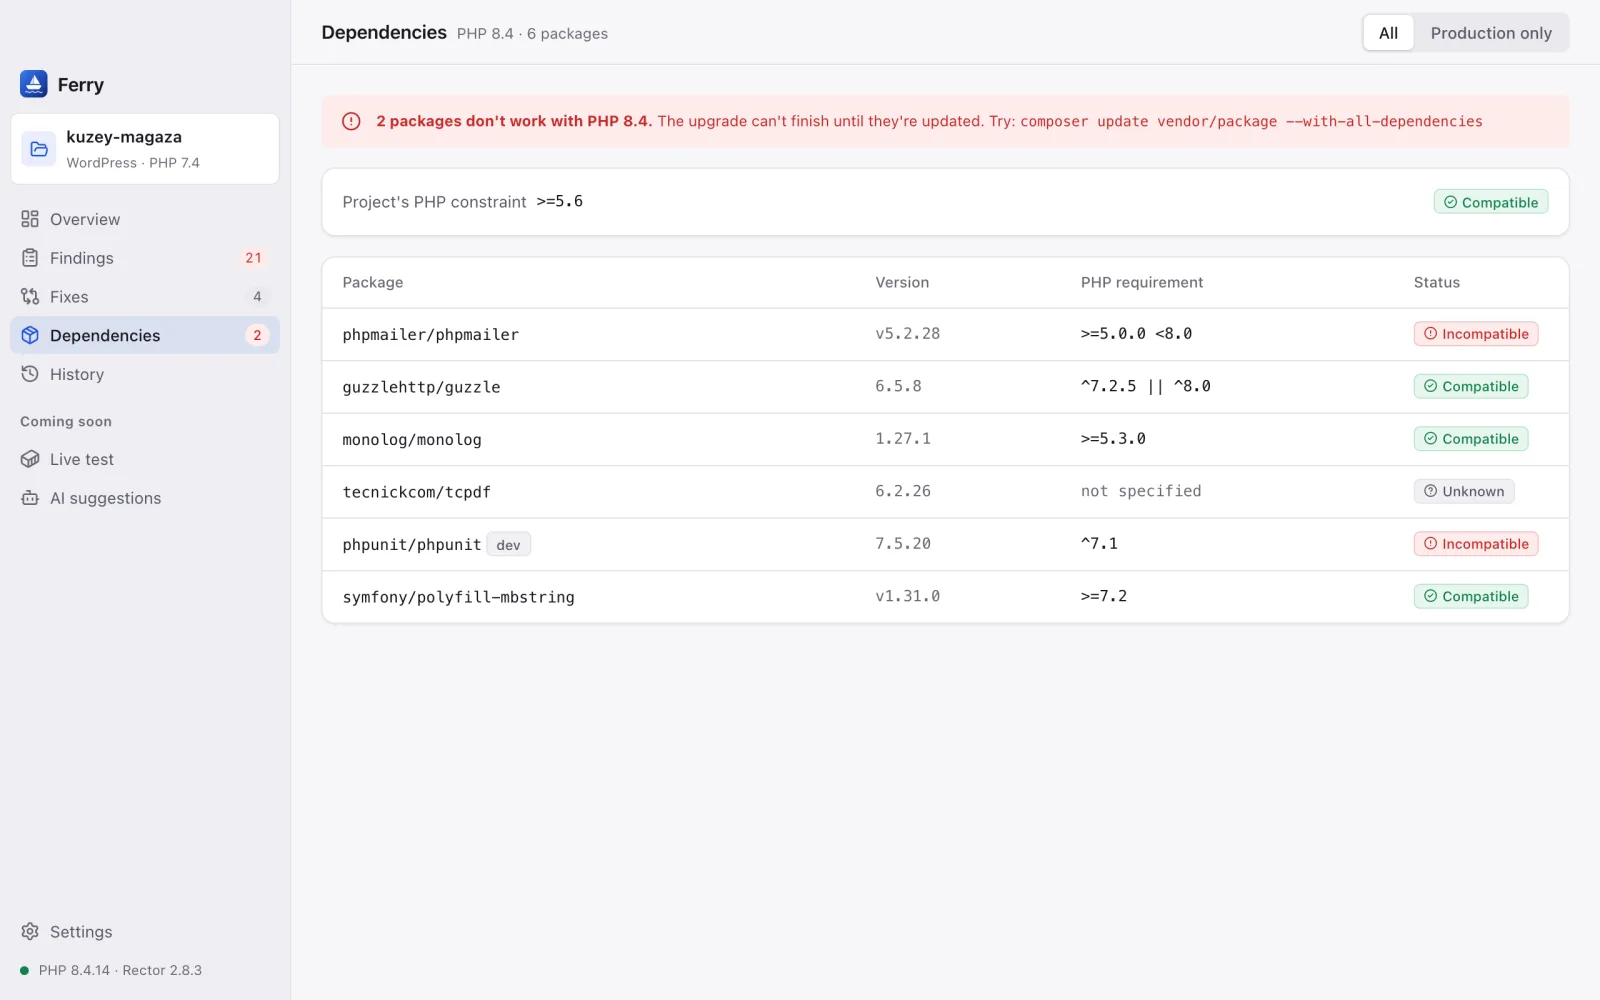
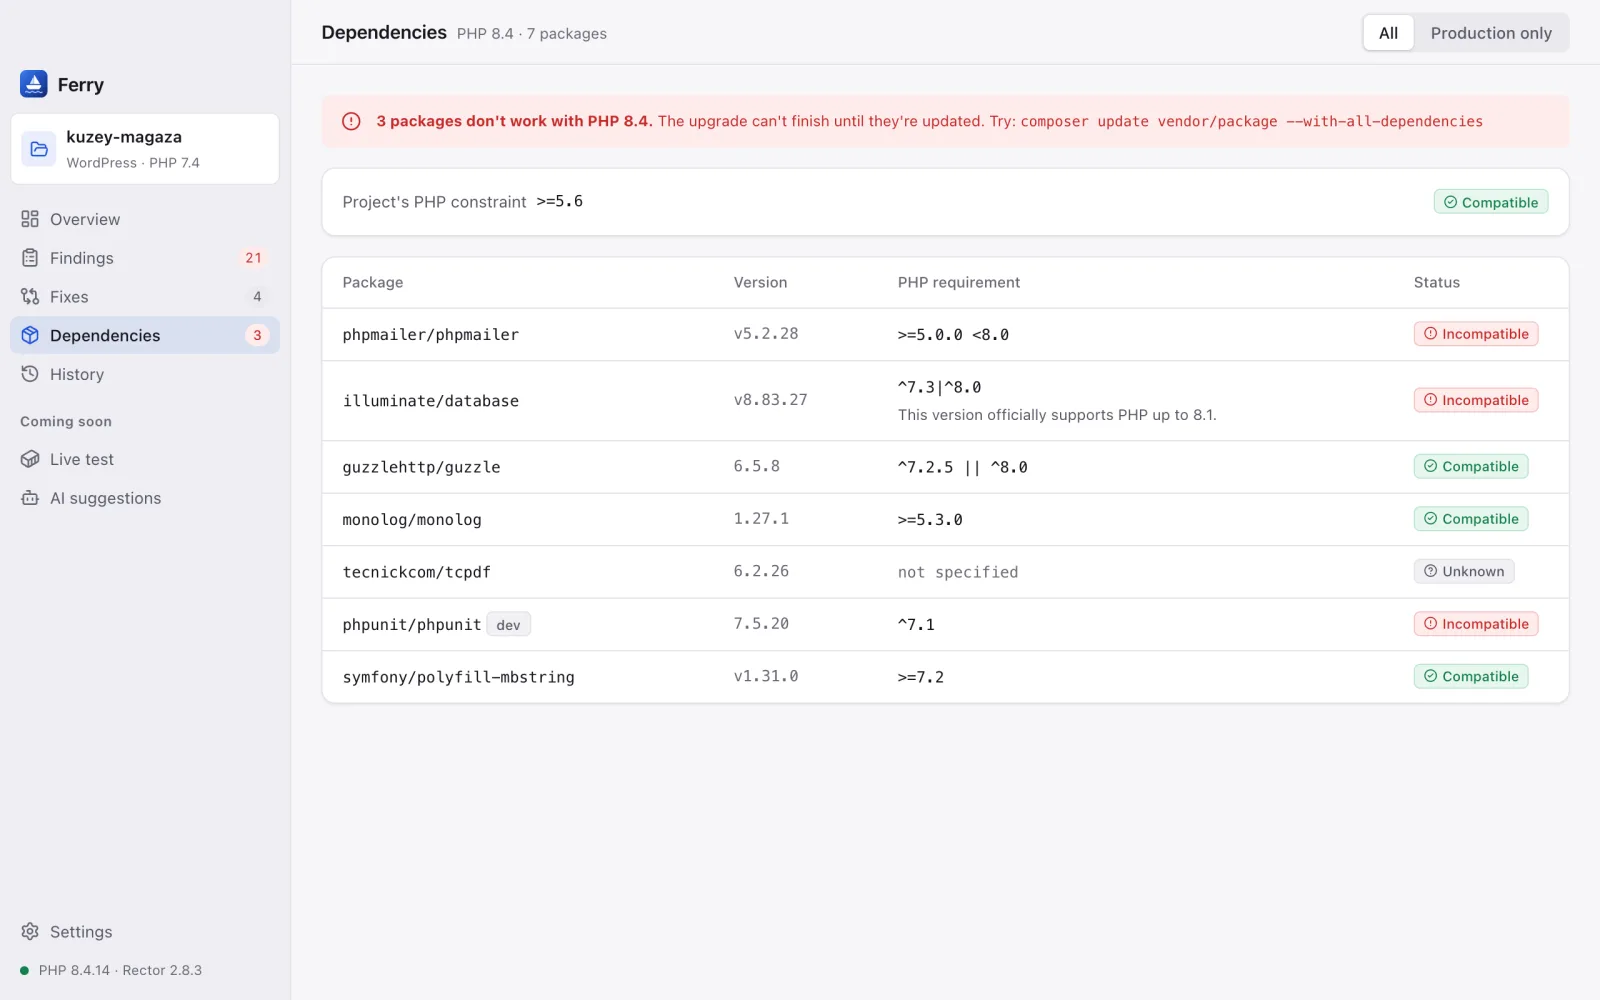
Use published framework support ranges for dependencies
laravel/framework, laravel/lumen-framework and illuminate/* are checked
against Laravel's supported PHP range, drupal/core against Drupal's, and
Symfony's core packages against when their maintenance ended, so a
loose constraint such as ^8.0.2 no longer reads as compatible with PHP
8.5. The Dependencies page explains the difference under the
requirement. The native e2e script now finds the snapshot delete button
directly and logs a heartbeat through the dev console.

diff --git a/e2e/native-full.js b/e2e/native-full.js
@@ -1,6 +1,12 @@
 (async () => {
   const invoke = window.__TAURI_INTERNALS__.invoke;
-  const emit = (m) => invoke("plugin:event|emit", { event: "e2e://log", payload: String(m) });
+  let lastLabel = "start";
+  const emit = (m) => {
+    lastLabel = String(m).slice(0, 80);
+    console.warn("E2E " + lastLabel);
+    return invoke("plugin:event|emit", { event: "e2e://log", payload: String(m) });
+  };
+  setInterval(() => console.warn("E2E alive after: " + lastLabel), 10000);
   const sleep = (ms) => new Promise((r) => setTimeout(r, ms));
   const until = async (fn, what, ms = 30000) => {
     const start = Date.now();
@@ -182,12 +188,11 @@
       await click("Geri yükle", confirm);
       await until(() => seen.slice(before).includes("Geri yüklendi"), "restored toast", 30000);
 
-      await click("Yedeği sil", $$("tbody tr")[0]).catch(async () => {
-        const del = $$("tbody tr")[0].querySelector('button[aria-label="Yedeği sil"]');
-        check(del, "delete button");
-        del.click();
-      });
+      emit("  deleting snapshot");
+      (await until(() => $('tbody tr button[aria-label="Yedeği sil"]'), "delete button")).click();
+      emit("  confirming delete");
       await click("Sil", await dialog());
+      emit("  waiting for empty history");
       await until(() => text().includes("Henüz bir değişiklik uygulanmadı"), "history empty after delete");
     },
 

diff --git a/src/screens/Other.tsx b/src/screens/Other.tsx
@@ -53,7 +53,7 @@ function DepBadge({ status }: { status: DependencyStatus }) {
 }
 
 export function Dependencies() {
-  const { t } = useI18n();
+  const { t, loc } = useI18n();
   const { deps, scan, runScan, scanning, target } = useStore();
   const [showDev, setShowDev] = useState(true);
 
@@ -148,7 +148,10 @@ export function Dependencies() {
                         <span className="mono selectable">{p.name}</span> {p.dev && <Badge>dev</Badge>}
                       </td>
                       <td className="mono subtle">{p.version}</td>
-                      <td className="mono">{p.phpConstraint ?? <span className="subtle">{t.deps.unspecified}</span>}</td>
+                      <td>
+                        <span className="mono">{p.phpConstraint ?? <span className="subtle">{t.deps.unspecified}</span>}</span>
+                        {p.note && <div className="dep-note">{loc(p.note)}</div>}
+                      </td>
                       <td>
                         <DepBadge status={p.status} />
                       </td>

diff --git a/src/lib/mock.ts b/src/lib/mock.ts
@@ -139,6 +139,7 @@ const DEPS: Omit<DependencyReport, "target" | "rootStatus"> = {
   hasLockFile: true,
   packages: [
     { name: "phpmailer/phpmailer", version: "v5.2.28", phpConstraint: ">=5.0.0 <8.0", status: "incompatible", dev: false },
+    { name: "illuminate/database", version: "v8.83.27", phpConstraint: "^7.3|^8.0", status: "incompatible", dev: false, note: L("Bu sürüm resmi olarak en fazla PHP 8.1'i destekliyor.", "This version officially supports PHP up to 8.1.") },
     { name: "guzzlehttp/guzzle", version: "6.5.8", phpConstraint: "^7.2.5 || ^8.0", status: "compatible", dev: false },
     { name: "monolog/monolog", version: "1.27.1", phpConstraint: ">=5.3.0", status: "compatible", dev: false },
     { name: "tecnickcom/tcpdf", version: "6.2.26", phpConstraint: null, status: "unknown", dev: false },

diff --git a/src/test/app.test.tsx b/src/test/app.test.tsx
@@ -245,6 +245,15 @@ describe("Ferry app", () => {
     expect(within(dialog).getByRole("button", { name: "Vazgeç" })).toHaveFocus();
   });
 
+  it("explains packages whose real PHP limit is lower than their constraint", async () => {
+    const user = setup();
+    await openAndScan(user);
+    await user.click(nav(/Bağımlılıklar/));
+    const row = (await screen.findByText("illuminate/database")).closest("tr")!;
+    expect(within(row).getByText("Bu sürüm resmi olarak en fazla PHP 8.1'i destekliyor.")).toBeInTheDocument();
+    expect(within(row).getByText("Uyumsuz")).toBeInTheDocument();
+  });
+
   it("supports keyboard selection in the version picker", async () => {
     const user = setup();
     await user.click(await screen.findByRole("button", { name: "Proje klasörü seçin" }));

diff --git a/src/styles/app.css b/src/styles/app.css
@@ -2303,3 +2303,9 @@ html[data-platform="macos"] .sidebar {
   font-family: var(--font-mono);
   font-size: var(--text-xs);
 }
+
+.dep-note {
+  margin-top: 2px;
+  font-size: var(--text-sm);
+  color: var(--text-2);
+}

diff --git a/src/lib/types.ts b/src/lib/types.ts
@@ -72,6 +72,7 @@ export interface Dependency {
   phpConstraint: string | null;
   status: DependencyStatus;
   dev: boolean;
+  note?: Localized | null;
 }
 
 export interface DependencyReport {

diff --git a/crates/ferry-core/src/deps.rs b/crates/ferry-core/src/deps.rs
@@ -1,3 +1,4 @@
+use crate::i18n::Localized;
 use crate::version::{constraint_allows, PhpVersion};
 use serde::Serialize;
 use std::path::Path;
@@ -18,6 +19,7 @@ pub struct Dependency {
     pub php_constraint: Option<String>,
     pub status: DependencyStatus,
     pub dev: bool,
+    pub note: Option<Localized>,
 }
 
 #[derive(Debug, Clone, Serialize)]
@@ -67,13 +69,33 @@ pub fn check(root: &Path, target: PhpVersion) -> DependencyReport {
                     .pointer("/require/php")
                     .and_then(|v| v.as_str())
                     .map(str::to_string);
-                let status = status_for(php_constraint.as_deref(), target);
+                let mut status = status_for(php_constraint.as_deref(), target);
+                let mut note = None;
+                if let Some(limit) = crate::framework::package_limit(&name, &version).filter(|l| target > l.max) {
+                    let (max, t) = (limit.max.to_string(), target.to_string());
+                    if limit.official {
+                        status = DependencyStatus::Incompatible;
+                        note = Some(Localized {
+                            tr: format!("Bu sürüm resmi olarak en fazla PHP {max}'i destekliyor."),
+                            en: format!("This version officially supports PHP up to {max}."),
+                        });
+                    } else {
+                        if status == DependencyStatus::Compatible {
+                            status = DependencyStatus::Unknown;
+                        }
+                        note = Some(Localized {
+                            tr: format!("Bu sürümün bakımı PHP {t} çıkmadan bitti; bu sürümle hiç test edilmedi."),
+                            en: format!("This version stopped receiving fixes before PHP {t} came out and was never tested on it."),
+                        });
+                    }
+                }
                 packages.push(Dependency {
                     name,
                     version,
                     php_constraint,
                     status,
                     dev,
+                    note,
                 });
             }
         }
@@ -131,6 +153,32 @@ mod tests {
                 ("good/lib", DependencyStatus::Compatible, false),
             ]
         );
+    }
+
+    #[test]
+    fn known_framework_limits_beat_loose_constraints() {
+        let dir = tempfile::tempdir().unwrap();
+        fs::write(
+            dir.path().join("composer.lock"),
+            r#"{
+              "packages": [
+                {"name": "laravel/framework", "version": "v9.52.16", "require": {"php": "^8.0.2"}},
+                {"name": "illuminate/support", "version": "v11.30.0", "require": {"php": "^8.2"}},
+                {"name": "symfony/http-kernel", "version": "v5.4.40", "require": {"php": ">=7.2.5"}},
+                {"name": "symfony/console", "version": "v5.4.40", "require": {"php": ">=7.2.5"}}
+              ]
+            }"#,
+        )
+        .unwrap();
+        let r = check(dir.path(), "8.5".parse().unwrap());
+        let row = |n: &str| r.packages.iter().find(|p| p.name == n).unwrap();
+        assert_eq!(row("laravel/framework").status, DependencyStatus::Incompatible);
+        assert!(row("laravel/framework").note.as_ref().unwrap().en.contains("up to 8.2"));
+        assert_eq!(row("illuminate/support").status, DependencyStatus::Incompatible);
+        assert_eq!(row("symfony/http-kernel").status, DependencyStatus::Unknown);
+        assert!(row("symfony/console").note.is_none(), "only core packages carry the Symfony limit");
+        let ok = check(dir.path(), "8.2".parse().unwrap());
+        assert!(ok.packages.iter().find(|p| p.name == "laravel/framework").unwrap().note.is_none());
     }
 
     #[test]

diff --git a/crates/ferry-core/src/framework.rs b/crates/ferry-core/src/framework.rs
@@ -62,6 +62,29 @@ const SYMFONY_MAINTAINED_UNTIL: [(Version, Option<Version>); 18] = [
     ((9, 0), None),
 ];
 
+pub(crate) struct PackageLimit {
+    pub max: PhpVersion,
+    pub official: bool,
+}
+
+pub(crate) fn package_limit(name: &str, version: &str) -> Option<PackageLimit> {
+    let current = version_parts(version)?;
+    let laravel = matches!(name, "laravel/framework" | "laravel/lumen-framework") || name.starts_with("illuminate/");
+    let (max, official) = if laravel {
+        (LARAVEL_MAX_PHP.iter().find(|(m, _)| *m == current.0.max(5))?.1, true)
+    } else if matches!(name, "drupal/core" | "drupal/core-recommended") {
+        (table_lookup(&DRUPAL_MAX_PHP, current)?, true)
+    } else if matches!(name, "symfony/framework-bundle" | "symfony/http-kernel" | "symfony/symfony") {
+        (table_lookup(&SYMFONY_MAINTAINED_UNTIL, current)??, false)
+    } else {
+        return None;
+    };
+    Some(PackageLimit {
+        max: PhpVersion::new(max.0, max.1),
+        official,
+    })
+}
+
 pub fn check(root: &Path, framework: Framework, target: PhpVersion) -> Vec<Finding> {
     match framework {
         Framework::Laravel => laravel(root, target).into_iter().collect(),

diff --git a/crates/ferry-core/tests/demo.rs b/crates/ferry-core/tests/demo.rs
@@ -98,7 +98,10 @@ fn laravel_api_is_nearly_ready() {
     assert!(report::summarize(&result.findings).score >= 80);
     let deps = deps::check(&demo("laravel-api"), PhpVersion::new(8, 5));
     assert_eq!(deps.root_status, DependencyStatus::Compatible);
-    assert!(deps.packages.iter().all(|p| p.status == DependencyStatus::Compatible));
+    let framework = deps.packages.iter().find(|p| p.name == "laravel/framework").unwrap();
+    assert_eq!(framework.status, DependencyStatus::Incompatible, "Laravel 10 stops at PHP 8.3");
+    assert!(framework.note.is_some());
+    assert!(deps.packages.iter().filter(|p| p.name != "laravel/framework").all(|p| p.status == DependencyStatus::Compatible));
 }
 
 #[test]

diff --git a/README.tr.md b/README.tr.md
@@ -80,7 +80,9 @@ Ferry, Rector'ın tek başına çözemediği durumları da ele alır. Örneğin 
 
 **Bağımlılıklar** sayfası, kilitli her paketi `composer.lock`'ta bildirdiği PHP gereksinimine göre hedef sürümle karşılaştırır. Projenin `composer.json`'daki kendi PHP kısıtı da kontrol edilir.
 
-![PHP 8.4 ile uyumsuz iki paket, projenin PHP kısıtı ve her paketin sürümü, PHP gereksinimi ve durumunu gösteren Bağımlılıklar sayfası](assets/readme/dependencies-tr.webp)
+`^8.0` gibi bir gereksinim, paketin en yeni PHP'de çalıştığı anlamına gelmeyebilir. Laravel (`laravel/framework`, `illuminate/*`), Drupal çekirdeği ve Symfony'nin çekirdek paketleri için Ferry, framework'ün yayımladığı destek aralığını da kullanır ve farkı gereksinimin altında açıklar.
+
+![PHP 8.4 ile uyumsuz üç paket, projenin PHP kısıtı ve her paketin sürümü, PHP gereksinimi ve durumunu gösteren Bağımlılıklar sayfası](assets/readme/dependencies-tr.webp)
 
 Her paket **Uyumlu**, **Uyumsuz** ya da **Belirsiz** (paket bir PHP gereksinimi bildirmiyorsa) olarak işaretlenir. Geliştirme paketleri etiketlidir; **Sadece üretim** seçeneği onları gizler.
 

diff --git a/README.md b/README.md
@@ -80,7 +80,9 @@ Ferry handles cases Rector cannot on its own. For example, a file that uses `$st
 
 The **Dependencies** page checks every locked package against the target version, using the PHP requirement each package declares in `composer.lock`. The project's own PHP constraint in `composer.json` is checked too.
 
-![Dependencies page with two incompatible packages for PHP 8.4, the project's PHP constraint, and each package's version, PHP requirement and status](assets/readme/dependencies-en.webp)
+A declared requirement like `^8.0` doesn't always mean the package works on the newest PHP. For Laravel (`laravel/framework`, `illuminate/*`), Drupal core, and Symfony's core packages, Ferry also uses the framework's published support range and explains the difference under the requirement.
+
+![Dependencies page with three incompatible packages for PHP 8.4, the project's PHP constraint, and each package's version, PHP requirement and status](assets/readme/dependencies-en.webp)
 
 Each package is marked **Compatible**, **Incompatible**, or **Unknown** (when the package declares no PHP requirement). Development packages are labeled, and **Production only** hides them.
 
